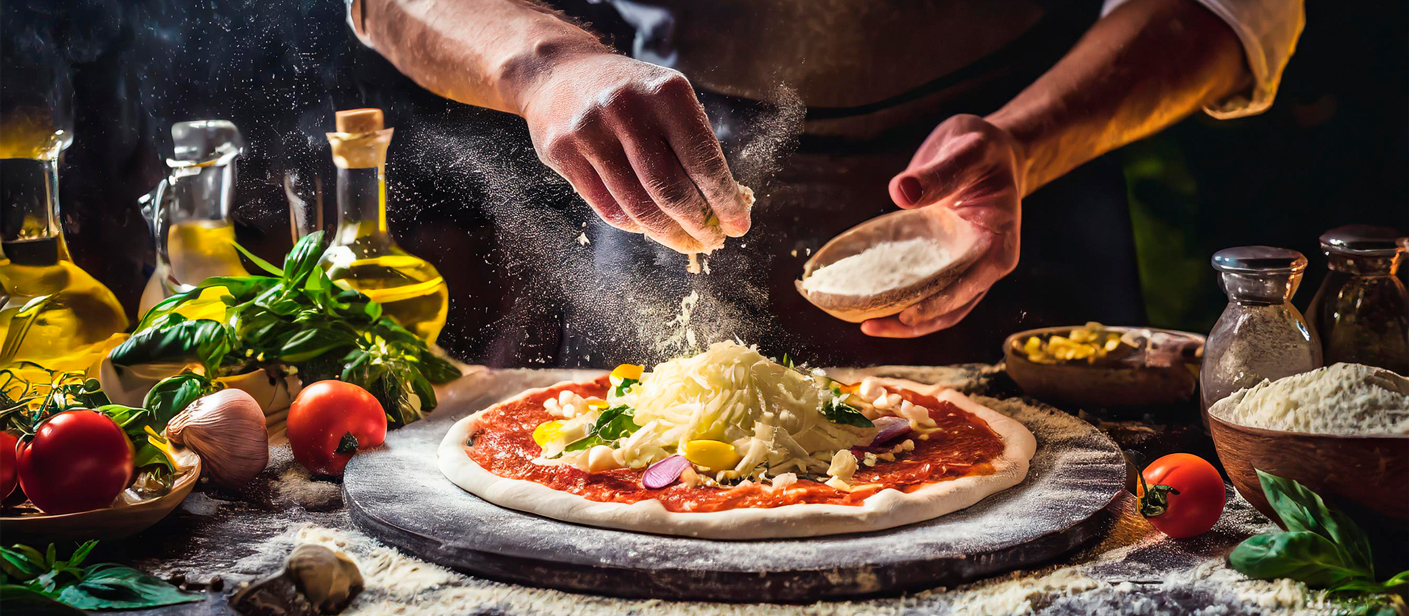
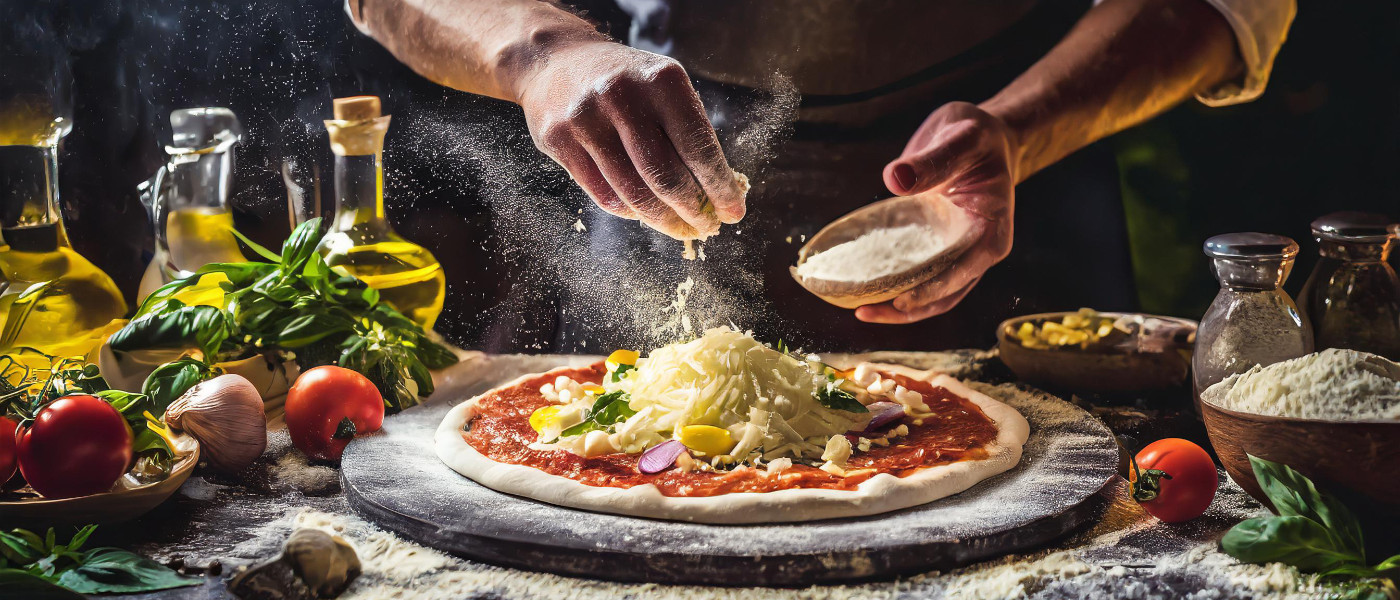
Padronizado tamanho de imagens e ajustes

diff --git a/index.html b/index.html
@@ -48,11 +48,11 @@
             <div class="carousel-item active" data-bs-interval="10000">
                 <img src="imgs/img1-carrosel.jpeg" class="d-block w-100" alt="...">
             </div>
-            <div class="carousel-item" data-bs-interval="2000">
-                <img src="imgs/img-test.jpeg" class="d-block w-100" alt="...">
+            <div class="carousel-item" data-bs-interval="5000">
+                <img src="imgs/img2-carrosel.jpeg" class="d-block w-100" alt="...">
             </div>
-            <div class="carousel-item">
-                <img src="imgs/img-test.jpeg" class="d-block w-100" alt="...">
+            <div class="carousel-item" data-bs-interval="5000">
+                <img src="imgs/img3-carrosel.jpeg" class="d-block w-100" alt="...">
             </div>
         </div>
         <button class="carousel-control-prev" type="button" data-bs-target="#carouselExampleInterval" data-bs-slide="prev">
@@ -82,38 +82,40 @@
         <div id="menu-cards-box" class="row d-flex justify-content-center">
             <div class="col-xl-4 col-md-6">
                 <div class="menu-card">
-                    <img class="img-fluid" src="imgs/marguerita.jpg" alt="">
+                    <img class="img-fluid" src="imgs/cardapio/marguerita.jpg" alt="">
                     <h4>Marguerita</h4>
+                    <div class="item-descriptor"><p>Tomate, mussarela e manjericão</p></div>
                 </div>
             </div>
             <div class="col-xl-4 col-md-6">
                 <div class="menu-card">
-                    <img class="img-fluid" src="imgs/marguerita.jpg" alt="">
-                    <h4>Pizza</h4>
+                    <img class="img-fluid" src="imgs/cardapio/marguerita.jpg" alt="">
+                    <h4>Frango com Catupiry</h4>
+                    <div class="item-descriptor"><p>Frango, catupiry, milho e azeitonas</p></div>
                 </div>
             </div>
             <div class="col-xl-4 col-md-6">
                 <div class="menu-card">
-                    <img class="img-fluid" src="imgs/marguerita.jpg" alt="">
-                    <h4>Pizza</h4>
+                    <img class="img-fluid" src="imgs/cardapio/marguerita.jpg" alt="">
+                    <h4>Quatro Queijos</h4>
                 </div>
             </div>
             <div class="col-xl-4 col-md-6">
                 <div class="menu-card">
-                    <img class="img-fluid" src="imgs/marguerita.jpg" alt="">
-                    <h4>Pizza</h4>
+                    <img class="img-fluid" src="imgs/cardapio/calabresa.jpeg" alt="">
+                    <h4>Calabresa</h4>
                 </div>
             </div>
             <div class="col-xl-4 col-md-6">
                 <div class="menu-card">
-                    <img class="img-fluid" src="imgs/marguerita.jpg" alt="">
-                    <h4>Pizza</h4>
+                    <img class="img-fluid" src="imgs/cardapio/marguerita.jpg" alt="">
+                    <h4>Strogonoff de frango</h4>
                 </div>
             </div>
             <div class="col-xl-4 col-md-6">
                 <div class="menu-card">
-                    <img class="img-fluid" src="imgs/marguerita.jpg" alt="">
-                    <h4>Pizza</h4>
+                    <img class="img-fluid" src="imgs/cardapio/marguerita.jpg" alt="">
+                    <h4>Pizza de Pepperoni</h4>
                 </div>
             </div>
         </div>
@@ -159,8 +161,7 @@
         <p>Nossa jornada começou há décadas, quando um grupo de amigos apaixonados pela culinária italiana decidiu trazer para Rio Claro o segredo de uma pizza perfeita. Com amor, trabalho árduo e uma pitada de nostalgia, eles transformaram um pequeno espaço em um santuário da culinária italiana: a Fornelli.</p>
         <p>Nossa paixão pela pizza atravessa gerações. Desde os primeiros dias, quando começamos a preparar a massa, até hoje, cada pizza que sai dos nossos fornos conta uma história de dedicação, qualidade e autenticidade.Mas mais do que apenas pizza, na Fornelli você encontra um lar. Somos um ponto de encontro para amigos que se reúnem para celebrar a vida, para famílias que compartilham uma refeição e para casais que brindam ao amor.</p>
         <p>Nosso compromisso com a qualidade e a hospitalidade é o que nos diferencia. Quando você entra na Fornelli, não é apenas um cliente; é parte da nossa história. Nossa mesa está sempre posta para recebê-lo com um sorriso caloroso e uma fatia generosa de pizza.
-        Então, venha se juntar a nós na Fornelli, onde a comida é boa, as risadas são contagiantes e as memórias são feitas a cada mordida. Afinal, na Fornelli, você não está apenas comendo pizza. Você está vivendo a experiência italiana no coração de Rio Claro. Buon appetito!</p>
-        <img class="img-fluid" src="imgs/img-sobre.jpeg" alt="">
+        Então, venha se juntar a nós na Fornelli, onde a comida é boa, as risadas são contagiantes e as memórias são feitas a cada mordida. Afinal, aqui, você não está apenas comendo pizza. Você está vivendo a experiência italiana no coração de Rio Claro. <strong><em>Buon appetito!</em></strong></p>
     </div>
     <footer>Fornelli’s Pizza @ 2024<br>Website developed with love by Bewder Ltda.</footer>
     <!--BTN VOLTAR PRA CIMA-->

diff --git a/styles/style.css b/styles/style.css
@@ -8,6 +8,7 @@
     --c3: #f0f8ff;
     --c4: #574738;
     --c5: #ffe817;
+    --ts: 0 0 3px black, 0 0 3px black;
 }
 
 @media only screen and (min-width : 0) {
@@ -28,7 +29,7 @@
 }
 @media only screen and (min-width : 768px) {
     .carousel-text {
-        font-size: 2rem;
+        font-size: 1.8rem;
     } 
 }
 
@@ -52,9 +53,9 @@ h4 {
     z-index: 2;
 } 
 #logo {
+    position: relative;
+    left: 2rem;
     width: 0;
-    margin-left: 2em;
-    margin-right: -2rem;
 }
 #logo-img {
     height: 5em;
@@ -62,7 +63,7 @@ h4 {
     transition-duration: .3s;
 }
 #logo-img:hover {
-    scale: 1.2;
+    scale: 1.3;
     rotate: -5deg;
 }
 .nav-icons {
@@ -108,7 +109,7 @@ h4 {
     text-align: center;
     z-index: 1;
     color: var(--c3);
-    text-shadow: 0 0 5px black, 0 0 5px black;
+    text-shadow: var(--ts);
 }
 #text1 {
     top: 5%;
@@ -119,12 +120,11 @@ h4 {
 /* CAIXA BASE PARA VÁRIAS SEÇÕES */
 .box {
     height: fit-content;
-    width: 95%;
-    max-width: 70rem;
+    width: 90vw;
     margin: auto;
     padding: 1rem;
     text-align: center;
-    border-radius: 20px;
+    border-radius: 1rem;
     background-color: var(--c3);
 }
 /* CARDÁPIO */
@@ -133,7 +133,6 @@ h4 {
     flex-direction: column;
     align-items: center;
     justify-content: center;
-    max-width: 95%;
 }
 .menu-nav {
     display: flex;
@@ -156,7 +155,7 @@ h4 {
     right: 99%;
     width: 6.5rem;
     height: 2.5rem;
-    border-radius: 20px;
+    border-radius: 1rem;
     background-color: var(--c2);
     transition-duration: .3s;
 }
@@ -164,24 +163,36 @@ h4 {
     display: flex;
     flex-direction: column;
     align-items: center;
-    min-height: 20rem;
-    min-width: 17rem;
-    height: fit-content;
-    width: 22vw;
+    width: 21rem;
     margin-inline: auto;
     margin-top: 1rem;
-    border-radius: 20px;
-    box-shadow: 0 0 10px black;
-    animation: pop .3s;
+    border-radius: 1rem;
+    box-shadow: 0 0 5px var(--c4);
+    animation: pop .8s;
 }
 .menu-card h4 {
-    margin-inline: auto;
-    margin-block: 1rem;
+    margin: auto;
+}
+.item-descriptor {
+    position: absolute;
+    display: flex;
+    align-items: center;
+    width: inherit;
+    height: 20rem;
+    font-size: 1.5rem;
+    border-radius: inherit;
+    color: var(--c3);
+    text-shadow: var(--ts);
+    backdrop-filter: blur(3px);
+    opacity: 0;
+    transition-duration: .5s;
+}
+.item-descriptor:hover {
+    opacity: 1;
+    cursor:default;
 }
 .menu-card img {
     border-radius: inherit;
-    border-bottom-left-radius: 0;
-    border-bottom-right-radius: 0;
 }
 /* CONTATO */
 .contact-item {
@@ -198,10 +209,17 @@ h4 {
 }
 .contact-item h4 {
     margin-inline: 1rem;
+    text-align: start;
 }
 /* SOBRE */
 #about {
     padding-inline: 2rem;
+    background-image: url(../imgs/img-sobre.jpeg);
+    background-size: cover;
+    background-position: center;
+    background-attachment: fixed;
+    color: var(--c3);
+    text-shadow: var(--ts);
 }
 #about p {
     font-family: var(--f2);
@@ -251,13 +269,9 @@ footer {
 }
 /* ANIMAÇÕES */
 @keyframes pop {
-    0% {
-        scale: 1;
-    }
-    50% {
-        scale: .5;
-    }
-    100% {
-        scale: 1;
+    from {
+        opacity: 0;
+    } to {
+        opacity: 100%;
     }
 }
